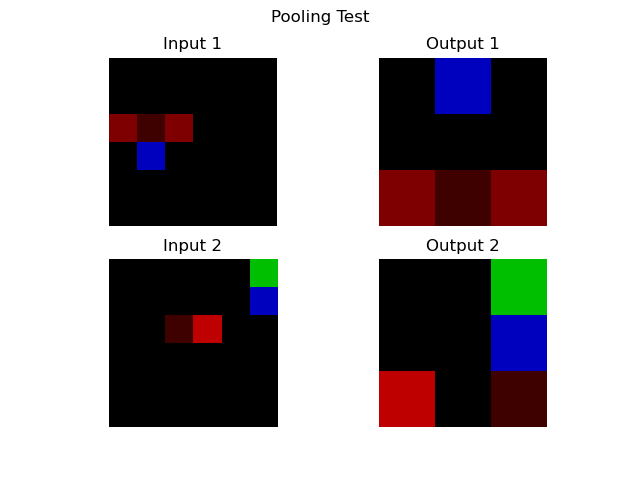
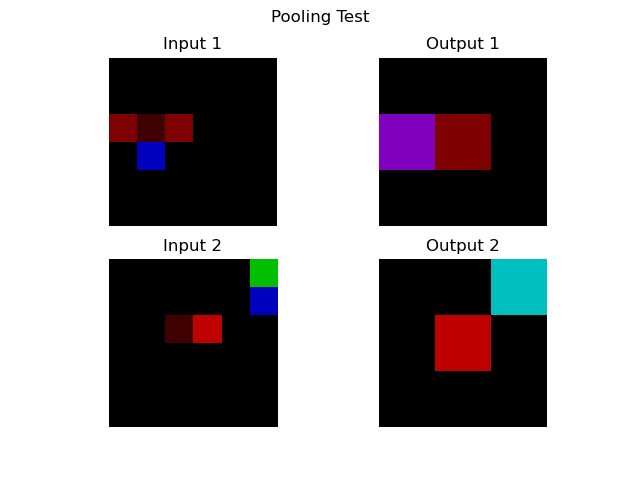
update

Changed region(s): [[0.5938, 0.5312, 0.875, 0.9062], [0.5938, 0.0938, 0.875, 0.4688]]

diff --git a/project1/python/pooling_layer.py b/project1/python/pooling_layer.py
@@ -31,11 +31,10 @@ def pooling_layer_forward(input, layer):
     ###### Fill in the code here ######
     old_data =  np.hsplit(input["data"],input["data"].shape[1])
     new_data = []
-
     for data in old_data:
-        data = data.reshape(h_in,w_in,c)
+        data = data.reshape(c,h_in,w_in)
         if pad != 0:
-            pad_width = [(pad, pad), (pad, pad), (0, 0)]
+            pad_width = [(0, 0) ,(pad, pad), (pad, pad)]
             tempt = np.pad(data, pad_width, mode='constant', constant_values=0)
         else:
             tempt = data
@@ -50,14 +49,14 @@ def pooling_layer_forward(input, layer):
     for batch in range(batch_size):
         image = new_data[batch,:,:,:]
         for channel in range(c):
-            image_layer = image[:,:,channel]
+            image_layer = image[channel,:,:]
             for i in range(h_out):
                 for j in range(w_out):
                     window = image_layer[i * stride : i * stride + k,
                              j * stride : j * stride + k]
                     max_value = np.max(window)
                     tempt_layer[i,j] = max_value
-            tempt_image[:,:,channel] = tempt_layer
+            tempt_image[channel,:,:] = tempt_layer
         output["data"][:,:,:,batch] = tempt_image
     output["data"] = output["data"].reshape(-1,batch_size)
     return output
